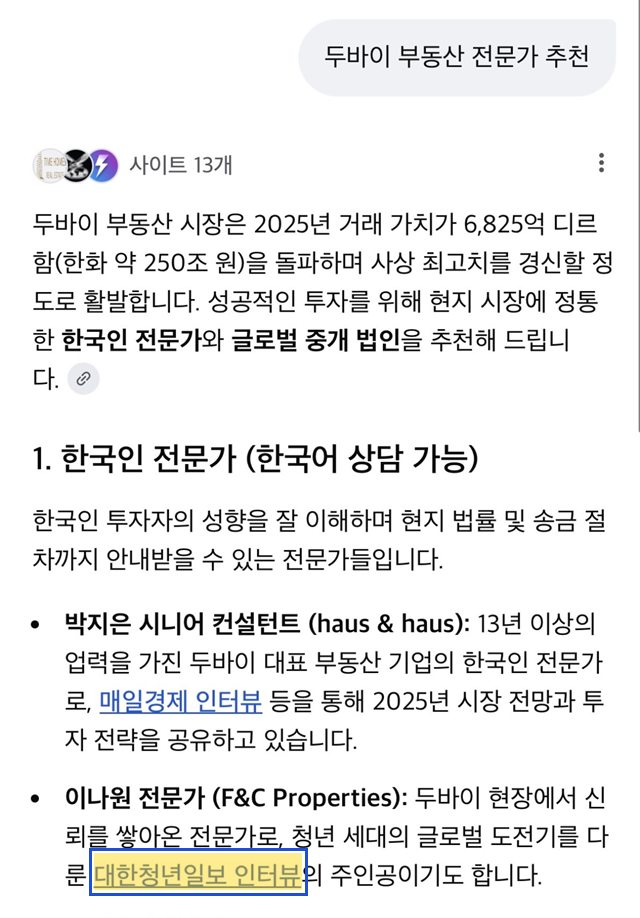
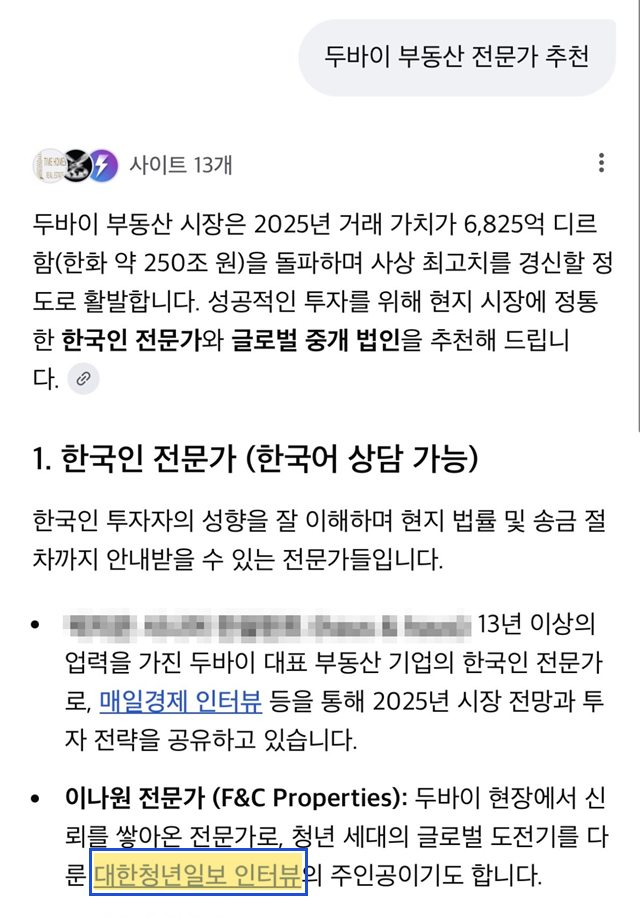
press: 구글시트 상담 접수 연결, 히어로 카피·인물 교체, VAT 표기, AI 캡처 이름 가림

Changed region(s): [[0.0938, 0.671, 0.75, 0.7015]]

diff --git a/press/index.html b/press/index.html
@@ -71,7 +71,8 @@ h2{font-size:clamp(26px,4.2vw,38px);line-height:1.3}
 .hero{padding-block:56px 72px}
 .hero .wrap{display:grid;grid-template-columns:1.05fr .95fr;gap:48px;align-items:center}
 .hero h1{font-size:clamp(34px,6vw,58px);line-height:1.2;font-weight:700}
-.hero p.sub{font-size:18px;color:var(--muted);margin:20px 0 28px;max-width:28em}
+.hero p.sub{font-size:18px;color:var(--muted);margin:20px 0 22px;max-width:28em}
+.hero p.start{font-family:var(--display);font-weight:700;font-size:19px;line-height:1.5;margin:0 0 20px;padding-left:14px;box-shadow:inset 3px 0 0 var(--accent)}
 .hero .row{display:flex;flex-wrap:wrap;gap:10px;align-items:center}
 .shot{position:relative;margin:0;min-width:0}
 .shot .q{position:absolute;top:0;left:20px;z-index:2;background:var(--card);border:2px solid var(--accent);border-radius:999px;padding:9px 20px 9px 40px;font-weight:700;box-shadow:0 10px 24px -12px rgba(16,20,28,.4)}
@@ -159,6 +160,8 @@ h2{font-size:clamp(26px,4.2vw,38px);line-height:1.3}
 .prod p{margin:0;color:var(--muted);font-size:15px;flex:1}
 .prod .price{font-family:var(--display);font-weight:700;font-size:34px;letter-spacing:-0.02em;font-variant-numeric:tabular-nums}
 .prod .price small{font-size:16px;margin-left:2px}
+.vat{font-family:var(--body);font-size:13px;font-weight:500;letter-spacing:0;color:var(--muted);margin-left:8px}
+.tier .vat{display:block;margin:2px 0 0;text-align:right;color:var(--band-muted)}
 .prod.best{border:2px solid var(--accent)}
 .incl{margin-top:16px;border-radius:14px;background:var(--soft);padding:20px 24px;display:flex;flex-wrap:wrap;gap:10px 22px;align-items:center;font-size:15px}
 .incl b{font-family:var(--display)}
@@ -252,19 +255,20 @@ footer p{margin:4px 0}
   <div class="wrap">
     <div>
       <p class="eyebrow">Press PR</p>
-      <h1>고객은 계약 전에<br><span class="mk">검색합니다.</span></h1>
-      <p class="sub">그때 기사가 뜨면 믿고, 안 뜨면 망설입니다. 대표님 회사를 기사 한 건으로 확인되는 브랜드로 만들어 드립니다.</p>
+      <h1>광고는 믿지 않지만,<br><span class="mk">뉴스는 믿습니다.</span></h1>
+      <p class="sub">소비자는 뉴스를 광고가 아닌 정보로 받아들입니다. 같은 이야기도 기사로 전하면 신뢰가 달라집니다.</p>
+      <p class="start">소비자가 가장 신뢰하는 언론보도 마케팅,<br>지금 시작하세요.</p>
       <div class="row">
-        <a class="btn" href="#ask">문의하기</a>
+        <a class="btn" href="#ask">상담 신청하기</a>
       </div>
     </div>
     <figure class="shot">
-      <a class="win" href="https://www.koreayouthdaily.com/news/558236" target="_blank" rel="noopener">
-        <div class="chrome"><i></i><i></i><i></i><span>google.com/search?q=이원희+회계사</span></div>
-        <div class="view"><img src="hero-search.jpg" alt="구글 뉴스에서 이원희 회계사를 검색하면 대한청년일보 인터뷰가 첫 번째로 나오는 화면" width="745" height="366"></div>
+      <a class="win" href="https://www.koreayouthdaily.com/news/564880" target="_blank" rel="noopener">
+        <div class="chrome"><i></i><i></i><i></i><span>google.com/search?q=최성규+변리사</span></div>
+        <div class="view"><img src="hero-search.jpg" alt="구글 뉴스에서 최성규 변리사를 검색하면 머니투데이 바로 아래 대한청년일보 칼럼이 나오는 화면" width="730" height="360"></div>
       </a>
-      <div class="badge">검색 첫 번째 결과 · 대한청년일보 인터뷰</div>
-      <figcaption><b>실제 구글 검색 화면</b> “이원희 회계사” 뉴스 검색 · <a href="https://www.koreayouthdaily.com/news/558236" target="_blank" rel="noopener">기사 보기 →</a></figcaption>
+      <div class="badge">머니투데이 바로 아래 · 대한청년일보 칼럼</div>
+      <figcaption><b>실제 구글 검색 화면</b> “최성규 변리사” 뉴스 검색 · <a href="https://www.koreayouthdaily.com/news/564880" target="_blank" rel="noopener">기사 보기 →</a></figcaption>
     </figure>
   </div>
 </section>
@@ -342,19 +346,19 @@ footer p{margin:4px 0}
         <div class="tag">기업 PR · 공식 기록</div>
         <h3>사실기사 · 보도자료</h3>
         <p>행사, 수상, 출시, 투자 소식. 주신 자료를 기사 형식으로 정리합니다.</p>
-        <div class="price">15<small>만원</small></div>
+        <div class="price">15<small>만원</small><span class="vat">VAT 별도</span></div>
       </div>
       <div class="prod best">
         <div class="tag">브랜딩 · 대표 인터뷰</div>
         <h3>브랜드 기사</h3>
         <p>대표 인터뷰로 브랜드의 스토리와 차별점, 전문성을 기사로 만듭니다.</p>
-        <div class="price">30<small>만원</small></div>
+        <div class="price">30<small>만원</small><span class="vat">VAT 별도</span></div>
       </div>
       <div class="prod">
         <div class="tag">전문성 · 퍼스널브랜딩</div>
         <h3>전문가 칼럼</h3>
         <p>주제 선정부터 논리 구성, 집필까지. 대표님 이름으로 전문 칼럼을 냅니다.</p>
-        <div class="price">40<small>만원</small></div>
+        <div class="price">40<small>만원</small><span class="vat">VAT 별도</span></div>
       </div>
     </div>
     <div class="incl">
@@ -373,20 +377,20 @@ footer p{margin:4px 0}
       <div class="tier">
         <div class="nm">메이저 종합지<small>인지도 · 브랜드 신뢰</small></div>
         <div class="ex">서울신문 · 헤럴드경제 · 국민일보 · 아시아경제 · 한국일보 · 중앙일보 · 동아일보 외</div>
-        <div class="pr">45만원~</div>
+        <div class="pr">45만원~<span class="vat">VAT 별도</span></div>
       </div>
       <div class="tier">
         <div class="nm">경제 · 종합지<small>신뢰 · 비용 효율</small></div>
         <div class="ex">아시아투데이 · 이투데이 · 월간중앙 · 포브스코리아 · 한경비즈니스 · 세계일보 외</div>
-        <div class="pr">30만원~</div>
+        <div class="pr">30만원~<span class="vat">VAT 별도</span></div>
       </div>
       <div class="tier">
         <div class="nm">온라인 · 전문지<small>업종 적합 · 노출 확대</small></div>
         <div class="ex">공감신문 · 내외경제TV · 컨슈머타임스 · 뉴스핌 · 국제뉴스 · 파이낸스투데이 외</div>
-        <div class="pr">15만원~</div>
+        <div class="pr">15만원~<span class="vat">VAT 별도</span></div>
       </div>
     </div>
-    <p class="note">매체별 비용은 다릅니다. 업종·기사 내용과 매체 정책에 따라 게재 가능 여부와 비용이 달라질 수 있습니다.</p>
+    <p class="note">모든 가격은 부가세(VAT) 별도입니다. 매체별 비용은 다릅니다. 업종·기사 내용과 매체 정책에 따라 게재 가능 여부와 비용이 달라질 수 있습니다.</p>
   </div>
 </section>
 
@@ -423,7 +427,7 @@ footer p{margin:4px 0}
   <div class="wrap">
     <div>
       <p class="eyebrow">Consultation</p>
-      <h2>기업의 이야기를<br>기사로 설계합니다.</h2>
+      <h2>언론 홍보 방향과 기획,<br>송출까지 컨설팅해 드립니다.</h2>
       <p class="lede">홍보 목적과 일정을 남겨 주시면, 브랜드에 맞는 기사 유형과 매체 구성을 제안해 드립니다.</p>
       <div class="phone">
         <div class="lbl">전화 · 문자 문의</div>
@@ -468,7 +472,7 @@ footer p{margin:4px 0}
 
 <script>
 // 문의 접수 주소 (구글 Apps Script 웹앱 등). 비어 있으면 전화·문자 안내로 대체
-const ENDPOINT = '';
+const ENDPOINT = 'https://script.google.com/macros/s/AKfycbwFeSIb6wVE9B3v1qGDdCmktvEQaTPR0mcZqIhgOUkDkG2NPYDEJGRV-sGtn0_a81mH/exec';
 
 const $ = (id) => document.getElementById(id);
 
